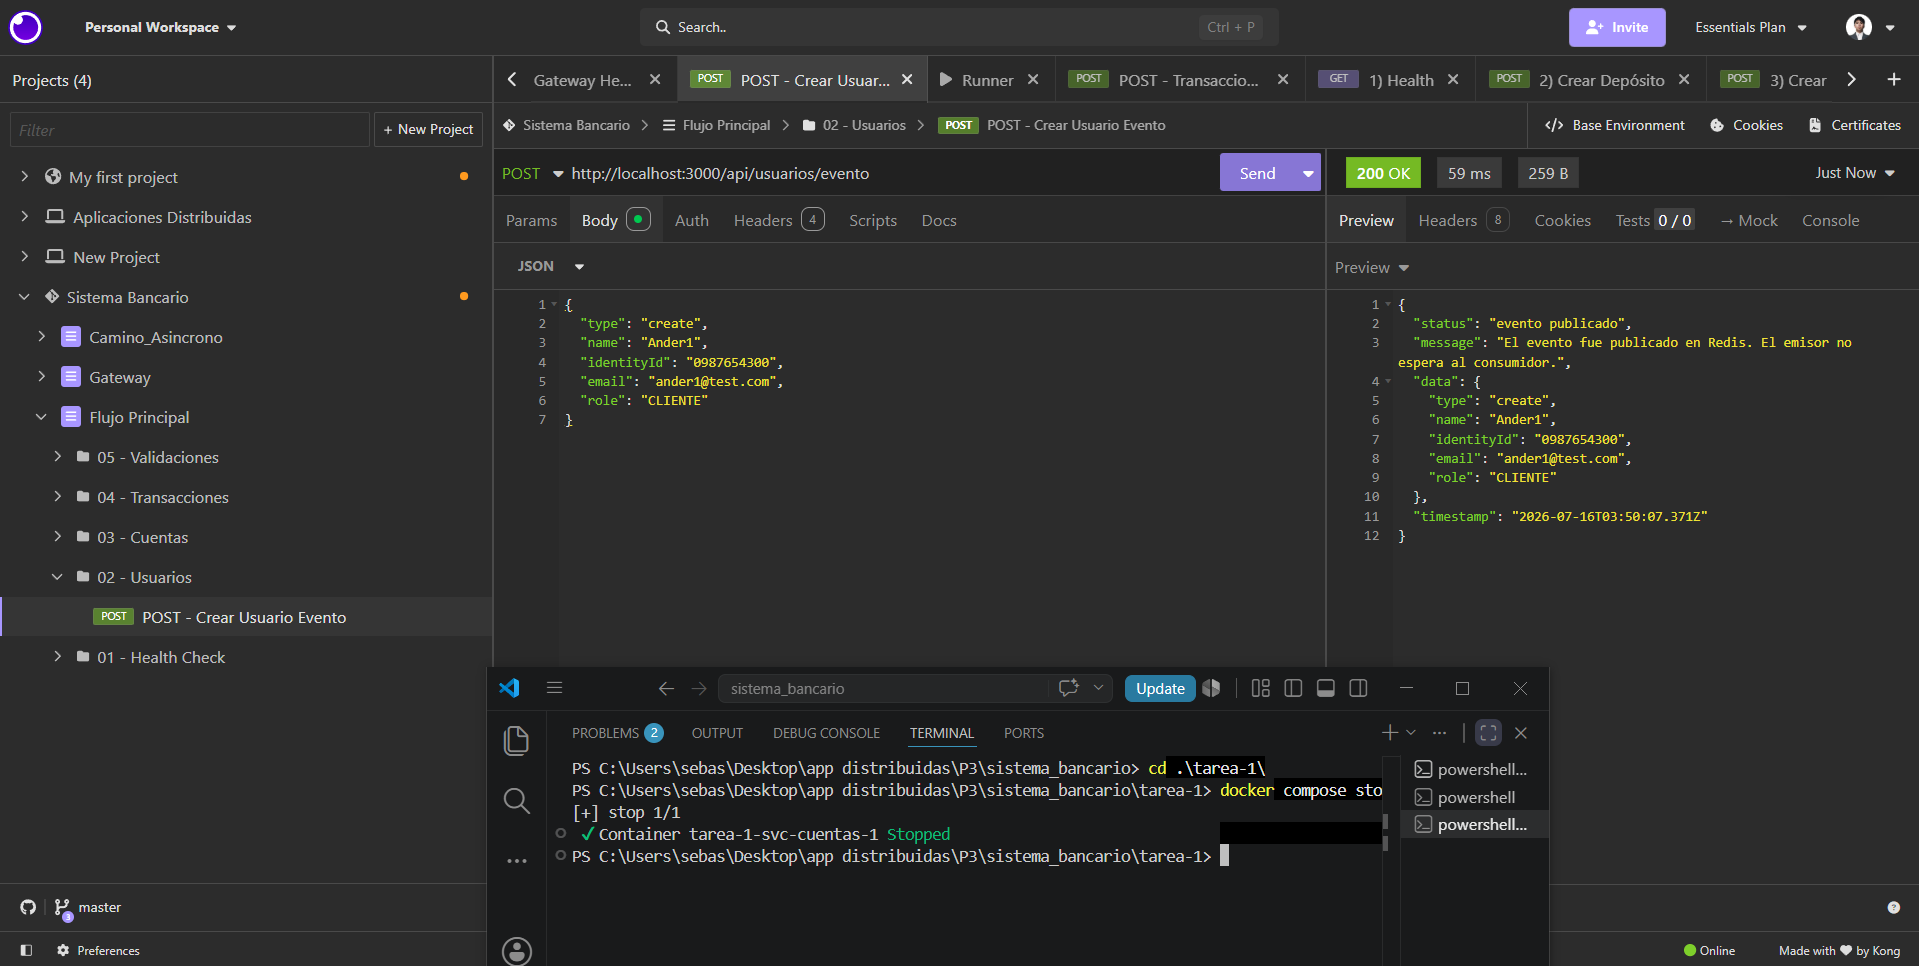
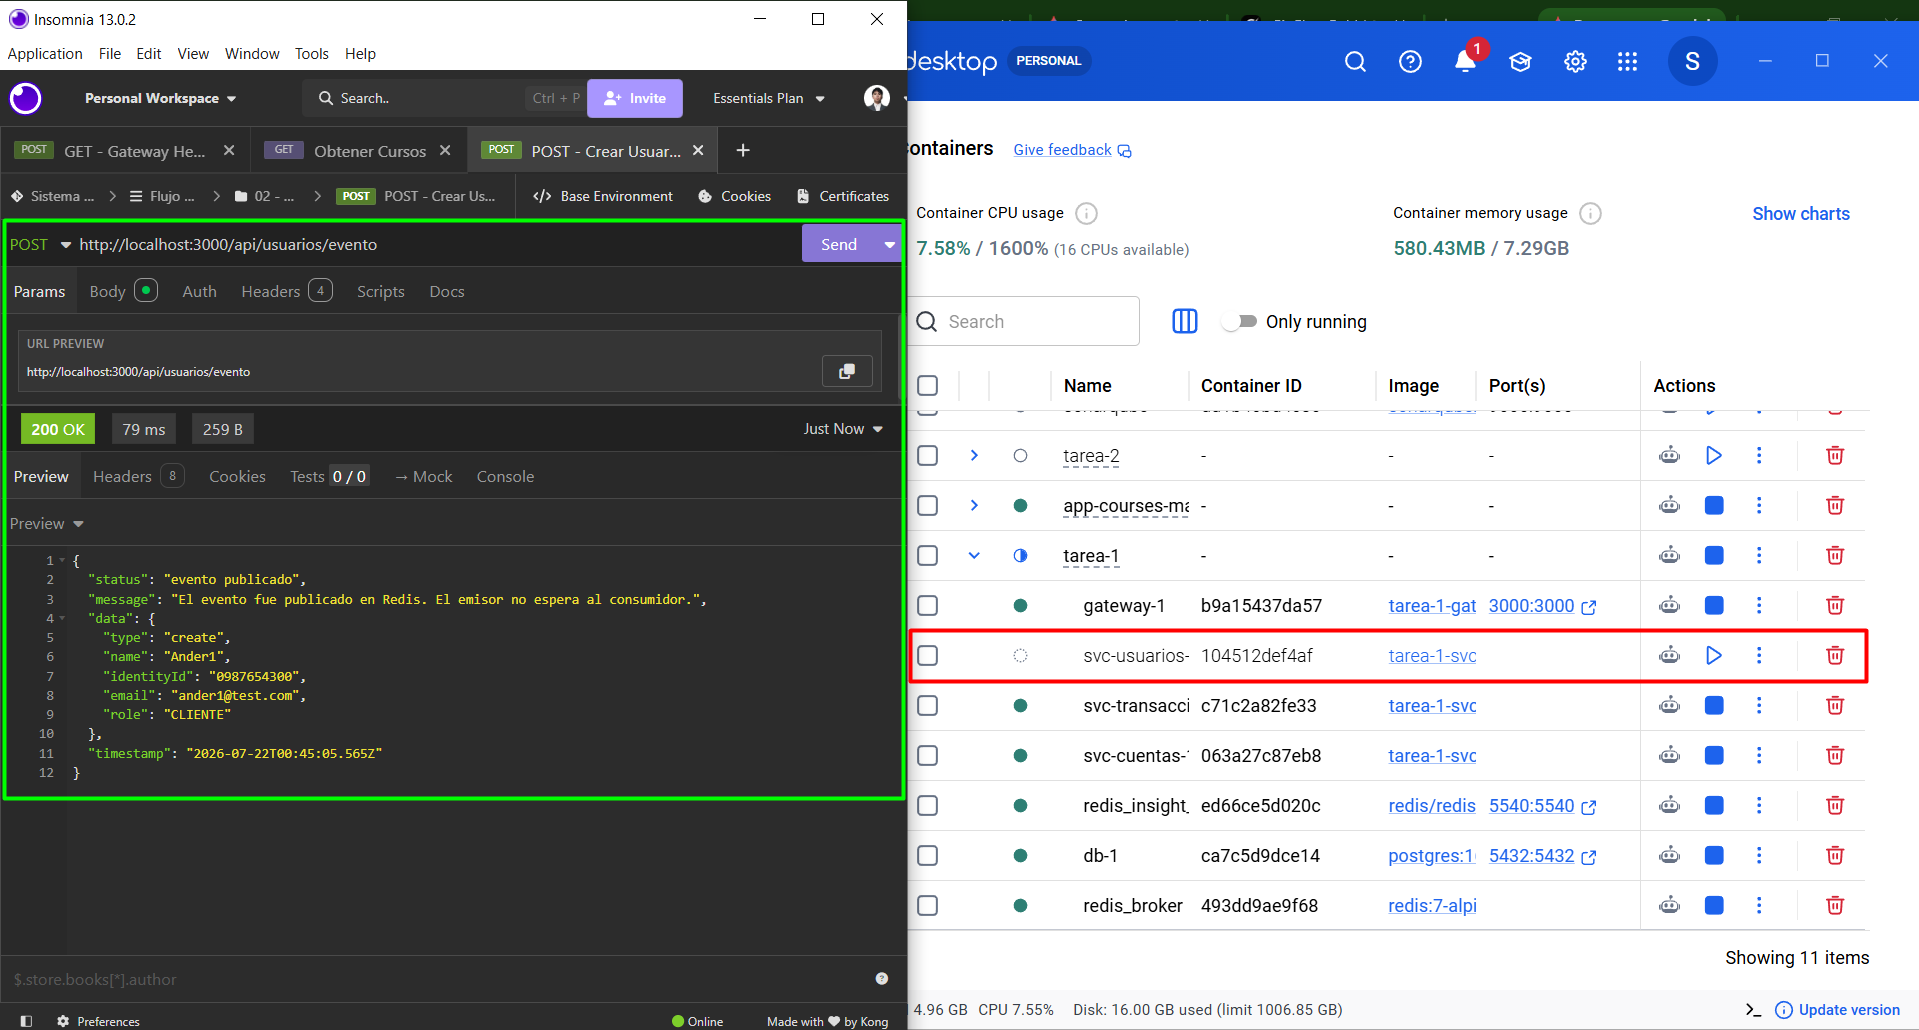
docs(readme): actualizar tabla de latencias y evidencias de acoplamiento temporal

diff --git a/README.md b/README.md
@@ -93,8 +93,8 @@ Se utilizó el script `benchmark.js` para ejecutar múltiples peticiones POST co
 
 | Camino | Promedio (ms) | p95 (ms) | Máx (ms) |
 |---|---:|---:|---:|
-| TCP (Transacciones) | 10.17 | 11 | 100 |
-| Redis (Usuarios) | 3.04 | 4 | 65 |
+| TCP (Transacciones) | 4.59 | 6 | 73 |
+| Redis (Usuarios) | 2.69 | 3 | 73 |
 
 ### 🧨 Acoplamiento temporal
 